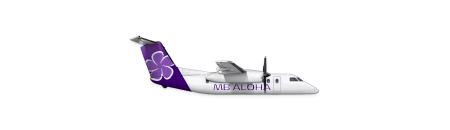
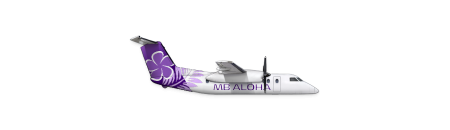
Added Q400, cleanup

Changed region(s): [[0.3422, 0.4923, 0.4667, 0.7077]]

diff --git a/index.html b/index.html
@@ -383,17 +383,17 @@
 					<td>
 						<h3>Bombardier</h3>
 						<ul>
-							<li>Bombardier Q-200</li>
+							<li>Bombardier Q-400</li>
 						</ul>
 						<ul>
-							<li><strong>Cruise Speed:</strong> 334 mph (537 kph)</li>
-							<li><strong>Range:</strong> 1,116 miles (1,796 km)</li>
-							<li><strong>Capacity:</strong> 36 passengers, 1 ton cargo</li>
-							<li><strong>Propulsion:</strong> Two Pratt & Whitney PW100 engines</li>
-							<li><strong>Wingspan:</strong> 85 feet (26 meters)</li>
+							<li><strong>Cruise Speed:</strong> 414 mph (667 kph)</li>
+							<li><strong>Range:</strong> 1,491 miles (2,400 km)</li>
+							<li><strong>Capacity:</strong> 58 passengers, 2 ton cargo</li>
+							<li><strong>Propulsion:</strong> Two Pratt & Whitney PW150 engines</li>
+							<li><strong>Wingspan:</strong> 93 feet (28 meters)</li>
 						</ul>
 					</td>
-					<td><img src="assets/images/aircraft/mba-q200.png" alt=""></td>
+					<td><img src="assets/images/aircraft/mba-q400.png" alt=""></td>
 				</tr>
 			</table>
 

diff --git a/seating/A330-300-B.html b/seating/A330-300-B.html
@@ -5,14 +5,14 @@
 
 		<meta name="viewport" content="width=350">
 
-		<link rel="icon" type="image/x-icon" href="../assets/images/logos/globe_original.jpg">		
+		<link rel="icon" type="image/x-icon" href="../assets/images/logos/mb_globe_blue_bk_2.png">		
 		<link rel="stylesheet" href="../assets/styles/normalize.css">
 		<link rel="stylesheet" href="../assets/styles/main.css">
 		<link rel="stylesheet" href="../assets/styles/seating.css">
 	</head>
 	<body>
 		<div class="page-banner">
-			<a href="../index.html#fleet"><img class="logo-img" src="../assets/images/logos/mb_logo_white.png" alt="MB Airways" /></a>
+			<a href="../index.html#fleet"><img class="logo-img" src="../assets/images/logos/mb_logo_web_4.png" alt="MB Airways" /></a>
 			<h3>Seat Map: Airbus A330-300 Option 1</h3>
 		</div>
 		

diff --git a/seating/A330-300-E.html b/seating/A330-300-E.html
@@ -5,14 +5,14 @@
 
 		<meta name="viewport" content="width=350">
 
-		<link rel="icon" type="image/x-icon" href="../assets/images/logos/globe_original.jpg">		
+		<link rel="icon" type="image/x-icon" href="../assets/images/logos/mb_globe_blue_bk_2.png">		
 		<link rel="stylesheet" href="../assets/styles/normalize.css">
 		<link rel="stylesheet" href="../assets/styles/main.css">
 		<link rel="stylesheet" href="../assets/styles/seating.css">
 	</head>
 	<body>
 		<div class="page-banner">
-			<a href="../index.html#fleet"><img class="logo-img" src="../assets/images/logos/mb_logo_white.png" alt="MB Airways" /></a>
+			<a href="../index.html#fleet"><img class="logo-img" src="../assets/images/logos/mb_logo_web_4.png" alt="MB Airways" /></a>
 			<h3>Seat Map: Airbus A330-300 Option 2</h3>
 		</div>
 		

diff --git a/seating/777-300-B.html b/seating/777-300-B.html
@@ -5,14 +5,14 @@
 
 		<meta name="viewport" content="width=350">
 
-		<link rel="icon" type="image/x-icon" href="../assets/images/logos/globe_original.jpg">		
+		<link rel="icon" type="image/x-icon" href="../assets/images/logos/mb_globe_blue_bk_2.png">		
 		<link rel="stylesheet" href="../assets/styles/normalize.css">
 		<link rel="stylesheet" href="../assets/styles/main.css">
 		<link rel="stylesheet" href="../assets/styles/seating.css">
 	</head>
 	<body>
 		<div class="page-banner">
-			<a href="../index.html#fleet"><img class="logo-img" src="../assets/images/logos/mb_logo_white.png" alt="MB Airways" /></a>
+			<a href="../index.html#fleet"><img class="logo-img" src="../assets/images/logos/mb_logo_web_4.png" alt="MB Airways" /></a>
 			<h3>Seat Map: Boeing 777-300 Option 1</h3>
 		</div>
 		

diff --git a/seating/777-300-E.html b/seating/777-300-E.html
@@ -5,14 +5,14 @@
 
 		<meta name="viewport" content="width=350">
 
-		<link rel="icon" type="image/x-icon" href="../assets/images/logos/globe_original.jpg">		
+		<link rel="icon" type="image/x-icon" href="../assets/images/logos/mb_globe_blue_bk_2.png">		
 		<link rel="stylesheet" href="../assets/styles/normalize.css">
 		<link rel="stylesheet" href="../assets/styles/main.css">
 		<link rel="stylesheet" href="../assets/styles/seating.css">
 	</head>
 	<body>
 		<div class="page-banner">
-			<a href="../index.html#fleet"><img class="logo-img" src="../assets/images/logos/mb_logo_white.png" alt="MB Airways" /></a>
+			<a href="../index.html#fleet"><img class="logo-img" src="../assets/images/logos/mb_logo_web_4.png" alt="MB Airways" /></a>
 			<h3>Seat Map: Boeing 777-300 Option 2</h3>
 		</div>
 		

diff --git a/seating/A319-100-B.html b/seating/A319-100-B.html
@@ -5,14 +5,14 @@
 
 		<meta name="viewport" content="width=350">
 
-		<link rel="icon" type="image/x-icon" href="../assets/images/logos/globe_original.jpg">		
+		<link rel="icon" type="image/x-icon" href="../assets/images/logos/mb_globe_blue_bk_2.png">		
 		<link rel="stylesheet" href="../assets/styles/normalize.css">
 		<link rel="stylesheet" href="../assets/styles/main.css">
 		<link rel="stylesheet" href="../assets/styles/seating.css">
 	</head>
 	<body>
 		<div class="page-banner">
-			<a href="../index.html#fleet"><img class="logo-img" src="../assets/images/logos/mb_logo_white.png" alt="MB Airways" /></a>
+			<a href="../index.html#fleet"><img class="logo-img" src="../assets/images/logos/mb_logo_web_4.png" alt="MB Airways" /></a>
 			<h3>Seat Map: Airbus A319-100 Option 1</h3>
 		</div>
 

diff --git a/seating/A319-100-E.html b/seating/A319-100-E.html
@@ -5,14 +5,14 @@
 
 		<meta name="viewport" content="width=350">
 
-		<link rel="icon" type="image/x-icon" href="../assets/images/logos/globe_original.jpg">		
+		<link rel="icon" type="image/x-icon" href="../assets/images/logos/mb_globe_blue_bk_2.png">		
 		<link rel="stylesheet" href="../assets/styles/normalize.css">
 		<link rel="stylesheet" href="../assets/styles/main.css">
 		<link rel="stylesheet" href="../assets/styles/seating.css">
 	</head>
 	<body>
 		<div class="page-banner">
-			<a href="../index.html#fleet"><img class="logo-img" src="../assets/images/logos/mb_logo_white.png" alt="MB Airways" /></a>
+			<a href="../index.html#fleet"><img class="logo-img" src="../assets/images/logos/mb_logo_web_4.png" alt="MB Airways" /></a>
 			<h3>Seat Map: Airbus A319-100 Option 2</h3>
 		</div>
 

diff --git a/seating/ERJ-175-B.html b/seating/ERJ-175-B.html
@@ -5,14 +5,14 @@
 
 		<meta name="viewport" content="width=350">
 
-		<link rel="icon" type="image/x-icon" href="../assets/images/logos/globe_original.jpg">		
+		<link rel="icon" type="image/x-icon" href="../assets/images/logos/mb_globe_blue_bk_2.png">		
 		<link rel="stylesheet" href="../assets/styles/normalize.css">
 		<link rel="stylesheet" href="../assets/styles/main.css">
 		<link rel="stylesheet" href="../assets/styles/seating.css">
 	</head>
 	<body>
 		<div class="page-banner">
-			<a href="../index.html#fleet"><img class="logo-img" src="../assets/images/logos/mb_logo_white.png" alt="MB Airways" /></a>
+			<a href="../index.html#fleet"><img class="logo-img" src="../assets/images/logos/mb_logo_web_4.png" alt="MB Airways" /></a>
 			<h3>Seat Map: Embraer ERJ-175 Option 1</h3>
 		</div>
 

diff --git a/seating/ERJ-175-E.html b/seating/ERJ-175-E.html
@@ -5,14 +5,14 @@
 
 		<meta name="viewport" content="width=350">
 
-		<link rel="icon" type="image/x-icon" href="../assets/images/logos/globe_original.jpg">		
+		<link rel="icon" type="image/x-icon" href="../assets/images/logos/mb_globe_blue_bk_2.png">		
 		<link rel="stylesheet" href="../assets/styles/normalize.css">
 		<link rel="stylesheet" href="../assets/styles/main.css">
 		<link rel="stylesheet" href="../assets/styles/seating.css">
 	</head>
 	<body>
 		<div class="page-banner">
-			<a href="../index.html#fleet"><img class="logo-img" src="../assets/images/logos/mb_logo_white.png" alt="MB Airways" /></a>
+			<a href="../index.html#fleet"><img class="logo-img" src="../assets/images/logos/mb_logo_web_4.png" alt="MB Airways" /></a>
 			<h3>Seat Map: Embraer ERJ-175 Option 2</h3>
 		</div>
 

diff --git a/seating/737-900ER.html b/seating/737-900ER.html
@@ -5,14 +5,14 @@
 
 		<meta name="viewport" content="width=350">
 
-		<link rel="icon" type="image/x-icon" href="../assets/images/logos/globe_original.jpg">		
+		<link rel="icon" type="image/x-icon" href="../assets/images/logos/mb_globe_blue_bk_2.png">		
 		<link rel="stylesheet" href="../assets/styles/normalize.css">
 		<link rel="stylesheet" href="../assets/styles/main.css">
 		<link rel="stylesheet" href="../assets/styles/seating.css">
 	</head>
 	<body>
 		<div class="page-banner">
-			<a href="../index.html#fleet"><img class="logo-img" src="../assets/images/logos/mb_logo_white.png" alt="MB Airways" /></a>
+			<a href="../index.html#fleet"><img class="logo-img" src="../assets/images/logos/mb_logo_web_4.png" alt="MB Airways" /></a>
 			<h3>Seat Map: Boeing 737-900ER</h3>
 		</div>
 

diff --git a/seating/A321-200.html b/seating/A321-200.html
@@ -5,14 +5,14 @@
 
 		<meta name="viewport" content="width=350">
 
-		<link rel="icon" type="image/x-icon" href="../assets/images/logos/globe_original.jpg">		
+		<link rel="icon" type="image/x-icon" href="../assets/images/logos/mb_globe_blue_bk_2.png">		
 		<link rel="stylesheet" href="../assets/styles/normalize.css">
 		<link rel="stylesheet" href="../assets/styles/main.css">
 		<link rel="stylesheet" href="../assets/styles/seating.css">
 	</head>
 	<body>
 		<div class="page-banner">
-			<a href="../index.html#fleet"><img class="logo-img" src="../assets/images/logos/mb_logo_white.png" alt="MB Airways" /></a>
+			<a href="../index.html#fleet"><img class="logo-img" src="../assets/images/logos/mb_logo_web_4.png" alt="MB Airways" /></a>
 			<h3>Seat Map: Airbus A321-200</h3>
 		</div>
 

diff --git a/seating/757-300.html b/seating/757-300.html
@@ -5,14 +5,14 @@
 
 		<meta name="viewport" content="width=350">
 
-		<link rel="icon" type="image/x-icon" href="../assets/images/logos/globe_original.jpg">		
+		<link rel="icon" type="image/x-icon" href="../assets/images/logos/mb_globe_blue_bk_2.png">		
 		<link rel="stylesheet" href="../assets/styles/normalize.css">
 		<link rel="stylesheet" href="../assets/styles/main.css">
 		<link rel="stylesheet" href="../assets/styles/seating.css">
 	</head>
 	<body>
 		<div class="page-banner">
-			<a href="../index.html#fleet"><img class="logo-img" src="../assets/images/logos/mb_logo_white.png" alt="MB Airways" /></a>
+			<a href="../index.html#fleet"><img class="logo-img" src="../assets/images/logos/mb_logo_web_4.png" alt="MB Airways" /></a>
 			<h3>Seat Map: Boeing 757-300</h3>
 		</div>
 
